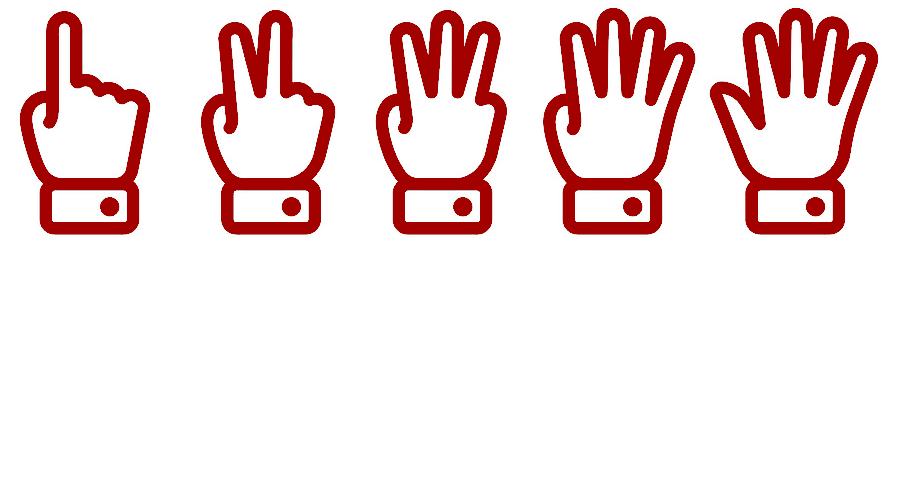
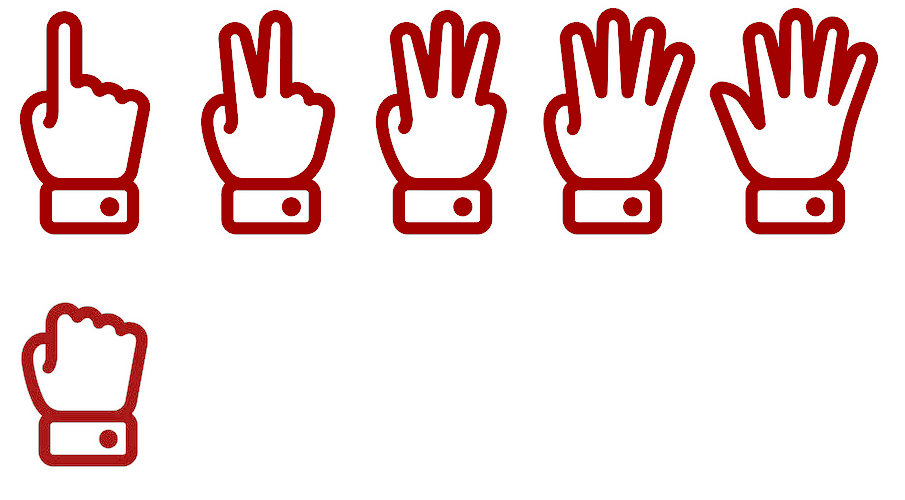
Enable computer moves and elimination

Changed region(s): [[0.0, 0.6, 0.1856, 0.96]]

diff --git a/frontend/index.html b/frontend/index.html
@@ -6,7 +6,7 @@
   <body>
     <div>
       <div id="header">
-        <p id="header-text">Let's play chopsticks! You go first</p>
+        <p id="header-text">Let's play chopsticks! You go first.</p>
       </div>
       <div id="app">
        <div class="container">
@@ -46,9 +46,12 @@
         }
         toObj() {
           return {
-            "lh": this.Lh,
-            "rh": this.Rh,
+            "lh": this.lh,
+            "rh": this.rh,
           };
+        }
+        equals(other) {
+          return !!other && this.lh === other.lh && this.rh === other.rh;
         }
       }
 
@@ -68,12 +71,15 @@
         toJson() {
           return JSON.stringify(this.toObj())
         }
+        equals(other) {
+          return !!other && other.T === this.T && this.p1.equals(other.p1) && this.p2.equals(other.p2);
+        }
       }
 
       class Move {
-        constructor() {
-          this.playerHand = null;
-          this.receiverHand = null;
+        constructor(playerHand = null, receiverHand = null) {
+          this.playerHand = playerHand;
+          this.receiverHand = receiverHand;
         }
 
         getPlayerHand() {
@@ -113,12 +119,14 @@
         }
       }
 
+      // Controllers
       class AnimationController {
         constructor() {
           // Promise which resolves when the last move update completes.
           this.lastPendingAnimation = Promise.resolve();
         }
         enqueueAnimation(anim) {
+          // Ensures that no more than one animation runs simultaneously
           this.lastPendingAnimation = this.lastPendingAnimation
             .then((result) => anim());
         }
@@ -131,6 +139,10 @@
       // Singleton
       const animationController = new AnimationController()
 
+      function sleep(ms) {
+        return new Promise((resolve, reject) => setTimeout(resolve, ms));
+      }
+
       const FINGERS_TO_X_TRANSLATE_PX = {
         1: 370,
         2: 200,
@@ -140,18 +152,14 @@
       };
 
       const IN_PLAY_Y_TRANSLATE_PX = 124;
+      const OUT_OF_PLAY_Y_TRANSLATE_PX = -124;
 
-
-      // Controllers
-      function applyMove(state) {
-        const gs = state.gs
-        const move = state.move
+      function applyMove(gs, move) {
         // Given the current game state and Move,
         // apply the Move to the gamestate and update the UI
         // Returns the new game state
         const player = gs.T == "p1" ? gs.p1 : gs.p2;
         const receiver = gs.T == "p1" ? gs.p2 : gs.p1;
-        const receiverStr = invertPlayer(gs.T);
 
         const playerFingers = player[move.getPlayerHand()];
         const receiverFingers = receiver[move.getReceiverHand()];
@@ -159,53 +167,115 @@
 
         // Increment the turn
         gs.T = invertPlayer(gs.T);
-
-        // The receive hand needs to be updated to the new value
-        const receiverPh = receiverStr + move.getReceiverHand();
         const newReceiverFingers = receiver[move.getReceiverHand()]
+        return newReceiverFingers;
+      }
+
+      // Ge the receiver player-hand code for the given game state and move.
+      function getReceiverPh(gs, move) {
+        const receiverStr = invertPlayer(gs.T);
+        return receiverStr + move.getReceiverHand();
+      }
+
+      function applyPlayerMove(state) {
+        const gs = state.gs
+        const move = state.move
+        const receiverPh = getReceiverPh(gs, move)
+
+        // Updates the game state.
+        const newReceiverFingers = applyMove(gs, move);
 
         setHeaderText(`You played ${move.getPlayerHand()} -> ${move.getReceiverHand()}`)
         setFingersForHand(receiverPh, newReceiverFingers)
         // Reset our move.
+        state.gs = gs; // Technically not necessary, but do it for consistency.
         state.move = new Move();
         return state;
+      }
+
+      async function applyComputerMove(state, expectedNextGs, computerMove) {
+        const gs = state.gs;
+        const receiverPh = getReceiverPh(gs, computerMove)
+        // Save this now cuz it willll get updated in applyMove
+        const computerP = gs.T;
+        // Update our game state
+        const newReceiverFingers = applyMove(gs, computerMove);
+
+        animationController.enqueueAnimation(() => animateComputerMove(computerP, computerMove, receiverPh, newReceiverFingers));
+        if (!gs.equals(expectedNextGs)) {
+          throw "Applied game state and expected game state are not equal, expected " + expectedNextGs.toJson() + ", got " + gs.ToJson();
+        }
+        state.gs = gs; // Technically not necessary, but do it for consistency.
+        state.move = new Move(); // Technically not necessary either, but apply for convenience.
+        // Wait for all animations to finish.
+        await animationController.promise();
+        return state;
+      }
+
+      async function animateComputerMove(computerP, move, receiverPh, newReceiverFingers) {
+        setHeaderText(`I'll play ${move.getPlayerHand()} -> ${move.getReceiverHand()}`)
+        selectPlayerHand(computerP, move.getPlayerHand());
+        await sleep(500);
+        // Update the fingers as we highlight the hand.
+        selectReceiverHand(invertPlayer(computerP), move.getReceiverHand());
+        setFingersForHand(receiverPh, newReceiverFingers)
+        await sleep(1000);
+        // Remove the selections
+        deselectHand(computerP, move.getPlayerHand());
+        deselectHand(invertPlayer(computerP), move.getReceiverHand());
       }
 
       function setHeaderText(text) {
         const header = document.getElementById("header-text")
         header.innerText = text
       }
+
+
       function setFingersForHand(ph, fingers) {
-        if (fingers == 0) {
-          // SPEICAL CASE, TODO
-        }
-        const transX = FINGERS_TO_X_TRANSLATE_PX[fingers]
         const el = document.getElementById(ph);
-        el.style.transform = `translate(${transX}px, ${IN_PLAY_Y_TRANSLATE_PX}px)`
+        if (fingers == 0) {
+          // Eliminate the hand.
+          const transX = FINGERS_TO_X_TRANSLATE_PX[1]
+          el.style.transform = `translate(${transX}px, ${OUT_OF_PLAY_Y_TRANSLATE_PX}px)`
+          disableClicksForHand(ph);
+        } else {
+          const transX = FINGERS_TO_X_TRANSLATE_PX[fingers]
+          el.style.transform = `translate(${transX}px, ${IN_PLAY_Y_TRANSLATE_PX}px)`
+        }
+      }
+
+      function isEliminated(el) {
+
       }
 
       function disableClicksForHand(ph) {
         const container = document.getElementById(ph + "-container");
         const img = document.getElementById(ph);
-        container.style.cursor = "not-allowed";
+        container.style.cursor = null;
         img.style.pointerEvents = "none";
       }
 
       function enableClicksForHand(ph) {
-        const container = document.getElementById(ph + "-container");
         const img = document.getElementById(ph);
+        const container = document.getElementById(ph + "-container");
         container.style.cursor = "pointer";
         img.style.pointerEvents = null;
       }
 
       function disableClicksForPlayer(p) {
-        disableClicksForHand(p + "rh");
         disableClicksForHand(p + "lh")
+        disableClicksForHand(p + "rh");
       }
 
-      function enableClicksForPlayer(p) {
-        enableClicksForHand(p + "rh");
-        enableClicksForHand(p + "lh")
+      function enableClicksForPlayer(gs, p) {
+        const player = gs[p];
+        // Don't enable clicks for eliminated hands.
+        if (player.lh !== 0) {
+          enableClicksForHand(p + "lh")
+        }
+        if (player.rh !== 0) {
+          enableClicksForHand(p + "rh");
+        }
       }
 
       function invertPlayer(p) {
@@ -253,14 +323,10 @@
         deselectHand(p, "rh");
       }
 
-      function deselectAllAfterTimeout() {
-        return new Promise((resolve, reject) => {
-          setTimeout(() => {
-            deselectPlayer("p1");
-            deselectPlayer("p2");
-            resolve();
-          }, 500);
-        });
+      async function deselectAllAfterTimeout() {
+        await sleep(1000);
+        deselectPlayer("p1");
+        deselectPlayer("p2");
       }
 
       // For now just select the hand.
@@ -271,9 +337,9 @@
           // If NO hand selected, enable selecting the opponents hand.
           const move = state.move;
           if (!move.getPlayerHand()) {
-            enableClicksForPlayer(invertPlayer(p));
+            enableClicksForPlayer(state.gs, invertPlayer(p));
           } 
-          // If other hand is selected, deselect it.
+          // If other hand is selected, deselect it. (always)
           deselectHand(p, invertHand(h));
           selectPlayerHand(p, h);
           move.setPlayerHand(h);
@@ -281,26 +347,34 @@
 
       }
 
-
       function addReceiverClickListener(p, h, state) {
         const elem = document.getElementById(p + h);
-
-        elem.addEventListener('click', event => {
+        handler = async function(event) {
           const move = state.move;
           if (!!move.getReceiverHand() && move.getReceiverHand() !== h) {
             // If other hand is selected, deselect it.
             deselectHand(p, move.getReceiverHand());
           }
-          selectReceiverHand(p, h)
-          move.setReceiverHand(h)
-          applyMove(state)
-          // TODO: disable for both players? until computer makes his move?
-          disableClicksForPlayer(p)
-          // Deselct both players after a timeout
-          // TODO: player is always player 1?
+          selectReceiverHand(p, h);
+          move.setReceiverHand(h);
+          // Mutates the state
+          applyPlayerMove(state);
+          // Disable both players until the computer makes his move
+          disableClicksForPlayer("p1");
+          disableClicksForPlayer("p2");
+          // Deselect both players after a timeout.
           animationController.enqueueAnimation(deselectAllAfterTimeout);
-          // submitMove(state.gs);
-        });
+          // Submit the move to the API and get the computer's response
+          const {nextGs, move: computerMove} = await submitMoveAndGetResponse(state.gs);
+          // Apply and animate the computer's response
+          await applyComputerMove(state, nextGs, computerMove);
+          // enable clicks for player 1 again.
+          // TODO: check if game is over here.
+          enableClicksForPlayer(state.gs, state.gs.T);
+          setHeaderText("Your turn.");
+        };
+
+        elem.addEventListener('click', handler);
       }
 
       // Example POST method implementation:
@@ -318,10 +392,56 @@
         return response.json(); // parses JSON response into native JavaScript objects
       }
 
-      function submitMove(gs) {
-        postData("/move", gs.toJson()).then(resp => {
-          console.log("Got response: " + resp);
-        })
+      // Example response:
+      //  {"NextState":{"Player1":{"Lh":2,"Rh":1},"Player2":{"Lh":1,"Rh":2},"T":1},"M":{"PlayerHand":0,"ReceiverHand":0}}
+      function parseResponse(resp) {
+        if (!resp.NextState) {
+          throw "Missing field NextState";
+        }
+        const nextStateObj = resp.NextState;
+        const p1 = parsePlayer(nextStateObj.Player1);
+        const p2 = parsePlayer(nextStateObj.Player2);
+        const turnInt = nextStateObj.T
+        if (!turnInt) {
+          throw "Missing field T"
+        }
+        // TODO: turn should always be p1, I guess?
+        const turn = turnInt == 1 ? "p1" : "p2";
+        const nextGs = new GameState(p1, p2, turn);
+
+        if (!resp.M) {
+          throw "Missing field M";
+        }
+        moveObj = resp.M;
+        console.log(JSON.stringify(moveObj));
+        if (!Number.isInteger(moveObj.PlayerHand) || !Number.isInteger(moveObj.ReceiverHand)) {
+          throw "Missing fields PlayerHand and ReceiverHand";
+        }
+        move = new Move(parseHand(moveObj.PlayerHand), parseHand(moveObj.ReceiverHand));
+        return {nextGs, move};
+      }
+
+      function parseHand(hand) {
+        if (!Number.isInteger(hand)) {
+          throw "Hand is not a number: " + hand;
+        }
+        return hand == 0 ? "lh" : "rh";
+      }
+
+      function parsePlayer(playerObj) {
+        if (!playerObj) {
+          throw "Falsy player object";
+        }
+        if (!Number.isInteger(playerObj.Lh) || !Number.isInteger(playerObj.Rh)) {
+          throw "Player Lh and Rh fields are not integers"
+        }
+        return new Player(playerObj.Lh, playerObj.Rh)
+      }
+
+      async function submitMoveAndGetResponse(gs) {
+        const resp = await postData("/move", gs.toJson());
+        console.log("Got response: " + JSON.stringify(resp));
+        return parseResponse(resp);
       }
 
       // Initialize UI state
@@ -331,15 +451,15 @@
         addReceiverClickListener("p2", "lh", state)
         addReceiverClickListener("p2", "rh", state)
 
-        enableClicksForPlayer("p1")
+        enableClicksForPlayer(state.gs, "p1")
         disableClicksForPlayer("p2")
       }
 
       function init() {
         // Current global game state
         const gs = new GameState(
-          new Player( 1, 1),
-          new Player( 1, 1),
+          new Player(1, 1),
+          new Player(1, 1),
           "p1"
           );
 
